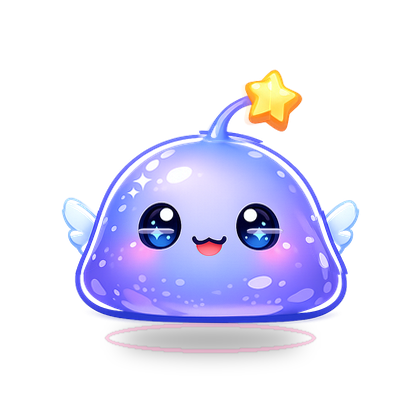
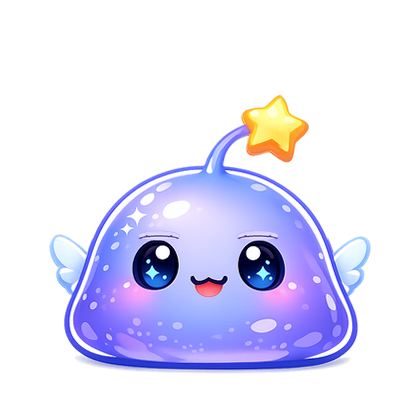
Add files via upload

diff --git a/index.html b/index.html
@@ -4,22 +4,22 @@
 <head>
   <meta charset="UTF-8" />
   <meta name="viewport" content="width=device-width, initial-scale=1.0" />
-  <title>Laya Pet — Nova Master + Idle 12</title>
+  <title>Laya Pet — Nova Idle 12 Fix</title>
   <link rel="stylesheet" href="css/style.css" />
 </head>
 <body>
   <div class="app">
     <div class="topbar">
       <div>
-        <h1>Nova Master + Idle 12</h1>
-        <p>เวอร์ชันนี้ใช้ transparent master ใหม่ + layer split + idle 12 เฟรม</p>
+        <h1>Nova Idle 12 — Fixed</h1>
+        <p>แก้ 3 จุดหลัก: ตากระพริบจริง, ดาวไม่หลุด, ปีกไม่ตัดก้อนลำตัว</p>
       </div>
       <div class="pill">3s loop</div>
     </div>
 
     <div class="shell">
       <section class="card stage-card">
-        <div class="speech">กระพริบตาประมาณทุก 3 วินาที · ปีกกระดิกบางช่วง · ดาวขยับเล็กน้อย</div>
+        <div class="speech">เวอร์ชันนี้ใช้ closed-eye frame จริง และให้ star/wing ขยับแบบเล็กมากเพื่อให้ดูเป็นธรรมชาติ</div>
         <div class="stage">
           <img id="anim" class="anim" src="assets/frames/idle/idle_00.png" alt="Nova idle animation" />
         </div>
@@ -32,23 +32,23 @@
 
       <aside class="side">
         <section class="card">
-          <h3>สิ่งที่ได้ในชุดนี้</h3>
+          <h3>ที่แก้ในรอบนี้</h3>
           <div class="meta">
-            <div class="metric"><div class="label">Master</div><div class="value">Transparent</div></div>
-            <div class="metric"><div class="label">Layers</div><div class="value">5 ไฟล์</div></div>
-            <div class="metric"><div class="label">Idle</div><div class="value">12 เฟรม</div></div>
-            <div class="metric"><div class="label">Blink</div><div class="value">ทุก 3 วิ</div></div>
+            <div class="metric"><div class="label">Blink</div><div class="value">วาดเพิ่มจริง</div></div>
+            <div class="metric"><div class="label">Star</div><div class="value">ขยับเล็กลง</div></div>
+            <div class="metric"><div class="label">Wings</div><div class="value">overlay only</div></div>
+            <div class="metric"><div class="label">Body</div><div class="value">ไม่ถูกตัด</div></div>
           </div>
         </section>
 
         <section class="card">
           <h3>ไฟล์สำคัญ</h3>
           <ul>
-            <li>assets/master/nova_master_transparent.png</li>
-            <li>assets/layers/body.png</li>
-            <li>assets/layers/wing_left.png</li>
-            <li>assets/layers/wing_right.png</li>
-            <li>assets/layers/antenna_star.png</li>
+            <li>assets/master/nova_master_clean.png</li>
+            <li>assets/layers/wing_left_overlay.png</li>
+            <li>assets/layers/wing_right_overlay.png</li>
+            <li>assets/layers/star_overlay.png</li>
+            <li>assets/layers/blink_closed_overlay.png</li>
             <li>assets/frames/idle/idle_00.png - idle_11.png</li>
           </ul>
         </section>

diff --git a/js/app.js b/js/app.js
@@ -5,10 +5,7 @@
   const img = document.getElementById('anim');
   let idx = 0;
   let timer = null;
-
-  function src(i){
-    return `${prefix}${String(i).padStart(2,'0')}.png`;
-  }
+  function src(i){ return `${prefix}${String(i).padStart(2,'0')}.png`; }
   function render(){ img.src = src(idx); }
   function play(){
     if (timer) return;
@@ -17,19 +14,10 @@
       render();
     }, 250);
   }
-  function pause(){
-    clearInterval(timer);
-    timer = null;
-  }
-  function step(){
-    idx = (idx + 1) % total;
-    render();
-  }
-
+  function pause(){ clearInterval(timer); timer = null; }
+  function step(){ idx = (idx + 1) % total; render(); }
   document.getElementById('playBtn').addEventListener('click', play);
   document.getElementById('pauseBtn').addEventListener('click', pause);
   document.getElementById('stepBtn').addEventListener('click', step);
-
-  render();
-  play();
+  render(); play();
 })();

diff --git a/README.md b/README.md
@@ -1,30 +1,17 @@
-# Laya Pet — Nova Master + Layers + Idle 12
+# Laya Pet — Nova Idle 12 Fix
 
-ชุดนี้ทำใหม่จาก Nova master ที่สะอาดกว่าเดิม
+รอบนี้แก้จาก feedback โดยตรง:
 
-## สิ่งที่มี
-- Transparent master
-- Layer split
-  - body
-  - wing_left
-  - wing_right
-  - antenna_star
-  - eyelids
-- Idle animation 12 เฟรม / 3 วินาที
-- GitHub-ready demo
+- ตาไม่กระพริบ → วาด closed-eye overlay เพิ่มจริง
+- ดาวขาดออกจากกัน → ลดระยะการขยับของ star ให้เล็กลงมาก
+- ปีกขยับแล้วตัดก้อนลำตัว → เปลี่ยนเป็น wing overlay flutter เท่านั้น ตัวก้อนลำตัวไม่ถูกตัด
 
 ## ไฟล์สำคัญ
-- `assets/master/nova_master_transparent.png`
-- `assets/layers/*.png`
+- `assets/master/nova_master_clean.png`
+- `assets/layers/wing_left_overlay.png`
+- `assets/layers/wing_right_overlay.png`
+- `assets/layers/star_overlay.png`
+- `assets/layers/blink_closed_overlay.png`
 - `assets/frames/idle/idle_00.png` ถึง `idle_11.png`
 - `assets/strips/idle_12_strip.png`
 - `assets/idle_12_preview.gif`
-- `assets/animation_meta.json`
-
-## วิธีอัป GitHub Pages
-1. แตกไฟล์ ZIP
-2. สร้าง repository ใหม่
-3. อัปทุกไฟล์ขึ้น repo
-4. Settings > Pages
-5. Deploy from a branch
-6. เลือก `main` และ `/(root)`
